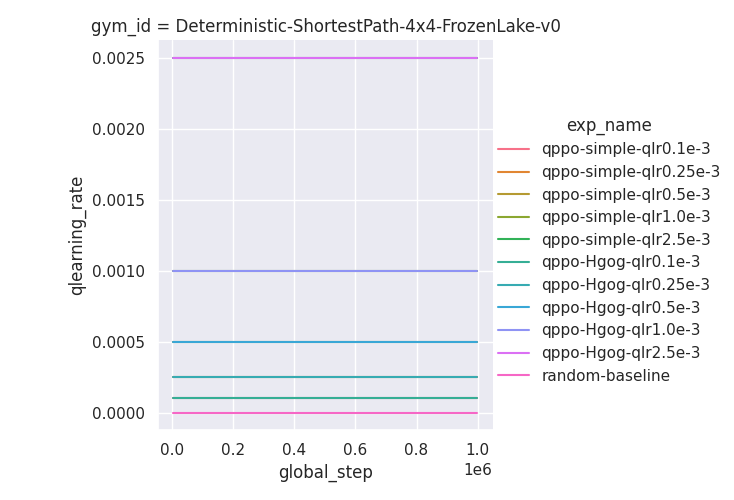
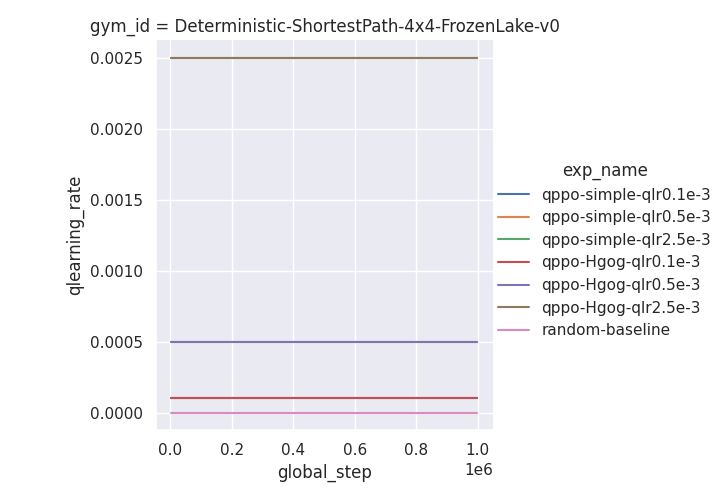
new tests

diff --git a/test_log.py b/test_log.py
@@ -144,14 +144,14 @@ plot_dir = plots_dir + "/Hyperparameter-Test-3a_QPPO-LR"
 gym_id = "Deterministic-ShortestPath-4x4-FrozenLake-v0"
 exp_names = [
     "qppo-simple-qlr0.1e-3",
-    "qppo-simple-qlr0.25e-3",
+    # "qppo-simple-qlr0.25e-3",
     "qppo-simple-qlr0.5e-3",
-    "qppo-simple-qlr1.0e-3",
+    # "qppo-simple-qlr1.0e-3",
     "qppo-simple-qlr2.5e-3",
     "qppo-Hgog-qlr0.1e-3",
-    "qppo-Hgog-qlr0.25e-3",
+    # "qppo-Hgog-qlr0.25e-3",
     "qppo-Hgog-qlr0.5e-3",
-    "qppo-Hgog-qlr1.0e-3",
+    # "qppo-Hgog-qlr1.0e-3",
     "qppo-Hgog-qlr2.5e-3",
     "random-baseline",
 ]
@@ -161,7 +161,7 @@ max_steps = 1000000
 
 plot_test_avg(results_dir, plot_dir, gym_id, exp_names, seeds, stepsize, max_steps)
 
-
+"""
 # Hyperparameter Test 3a-outscale:
 plot_dir = plots_dir + "/Hyperparameter-Test-3a-outscale_QPPO-LR"
 gym_id = "Deterministic-ShortestPath-4x4-FrozenLake-v0"
@@ -178,3 +178,4 @@ stepsize = 4 * 128 * 8
 max_steps = 1000000
 
 plot_test_avg(results_dir, plot_dir, gym_id, exp_names, seeds, stepsize, max_steps)
+"""
